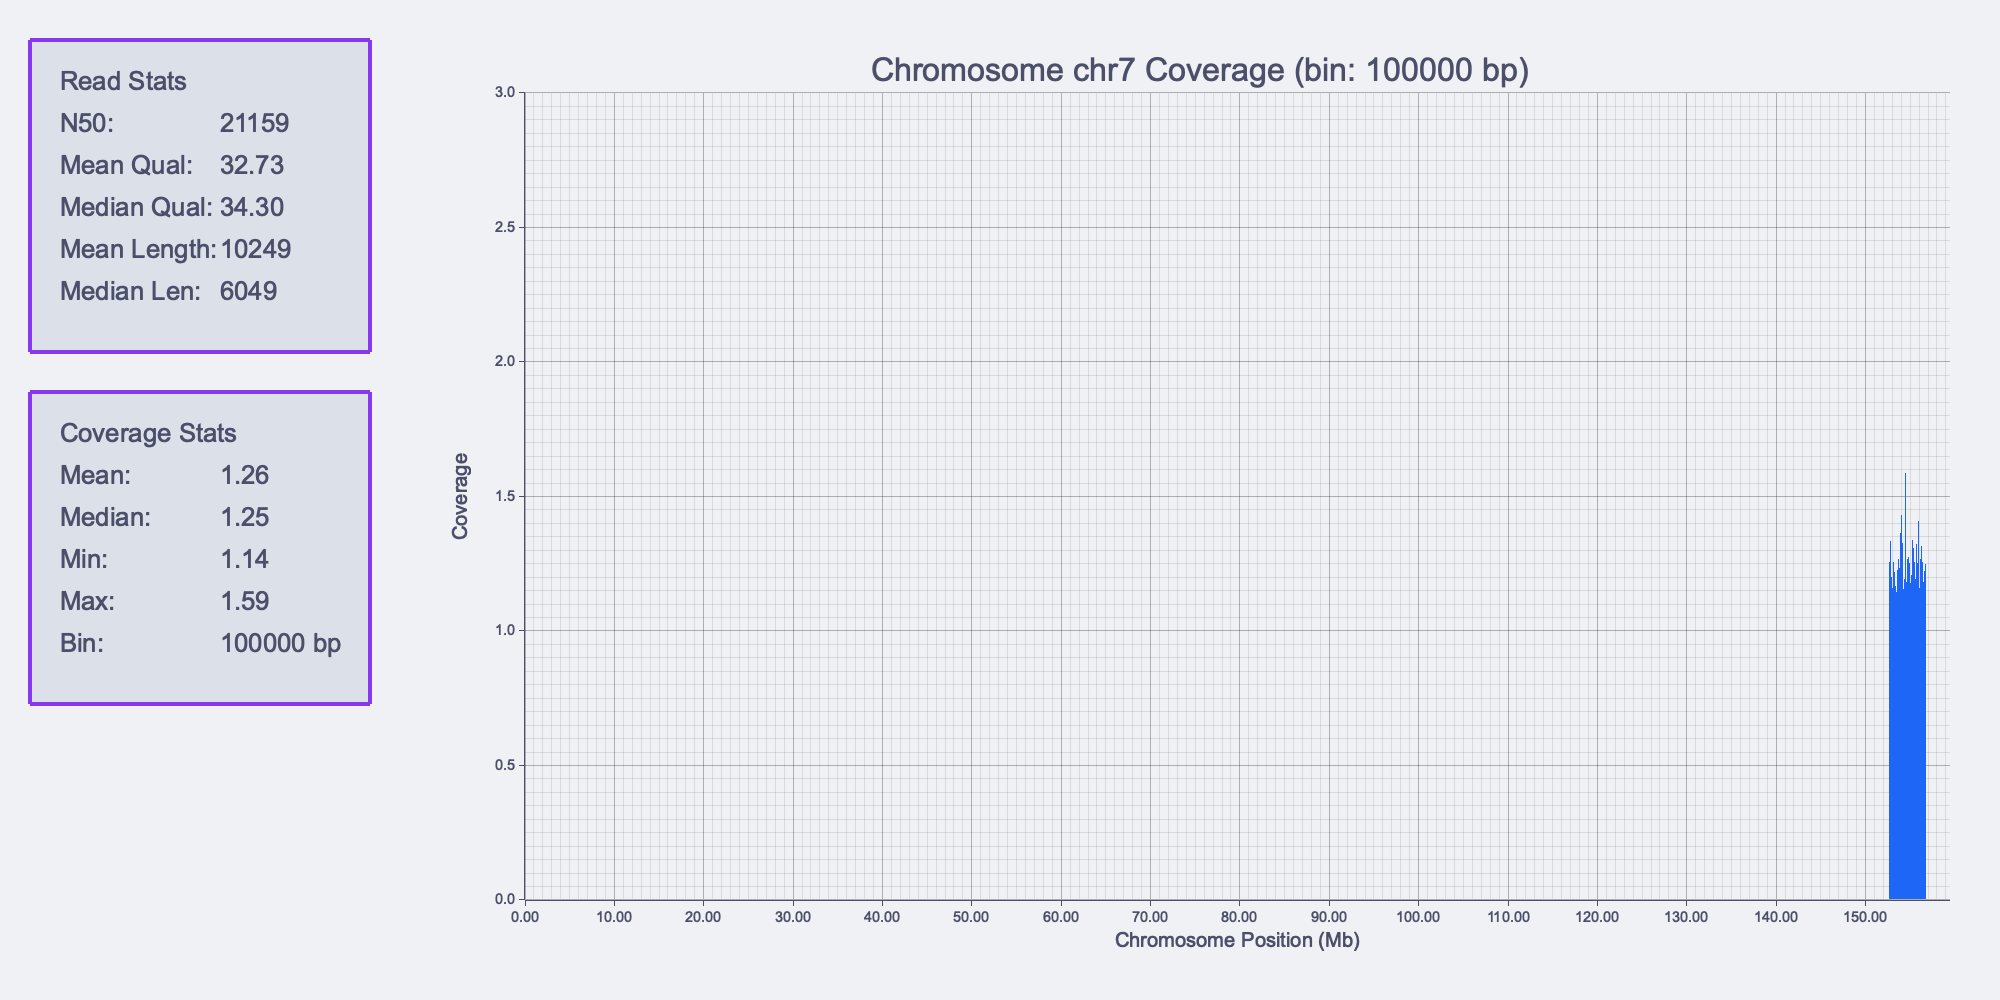
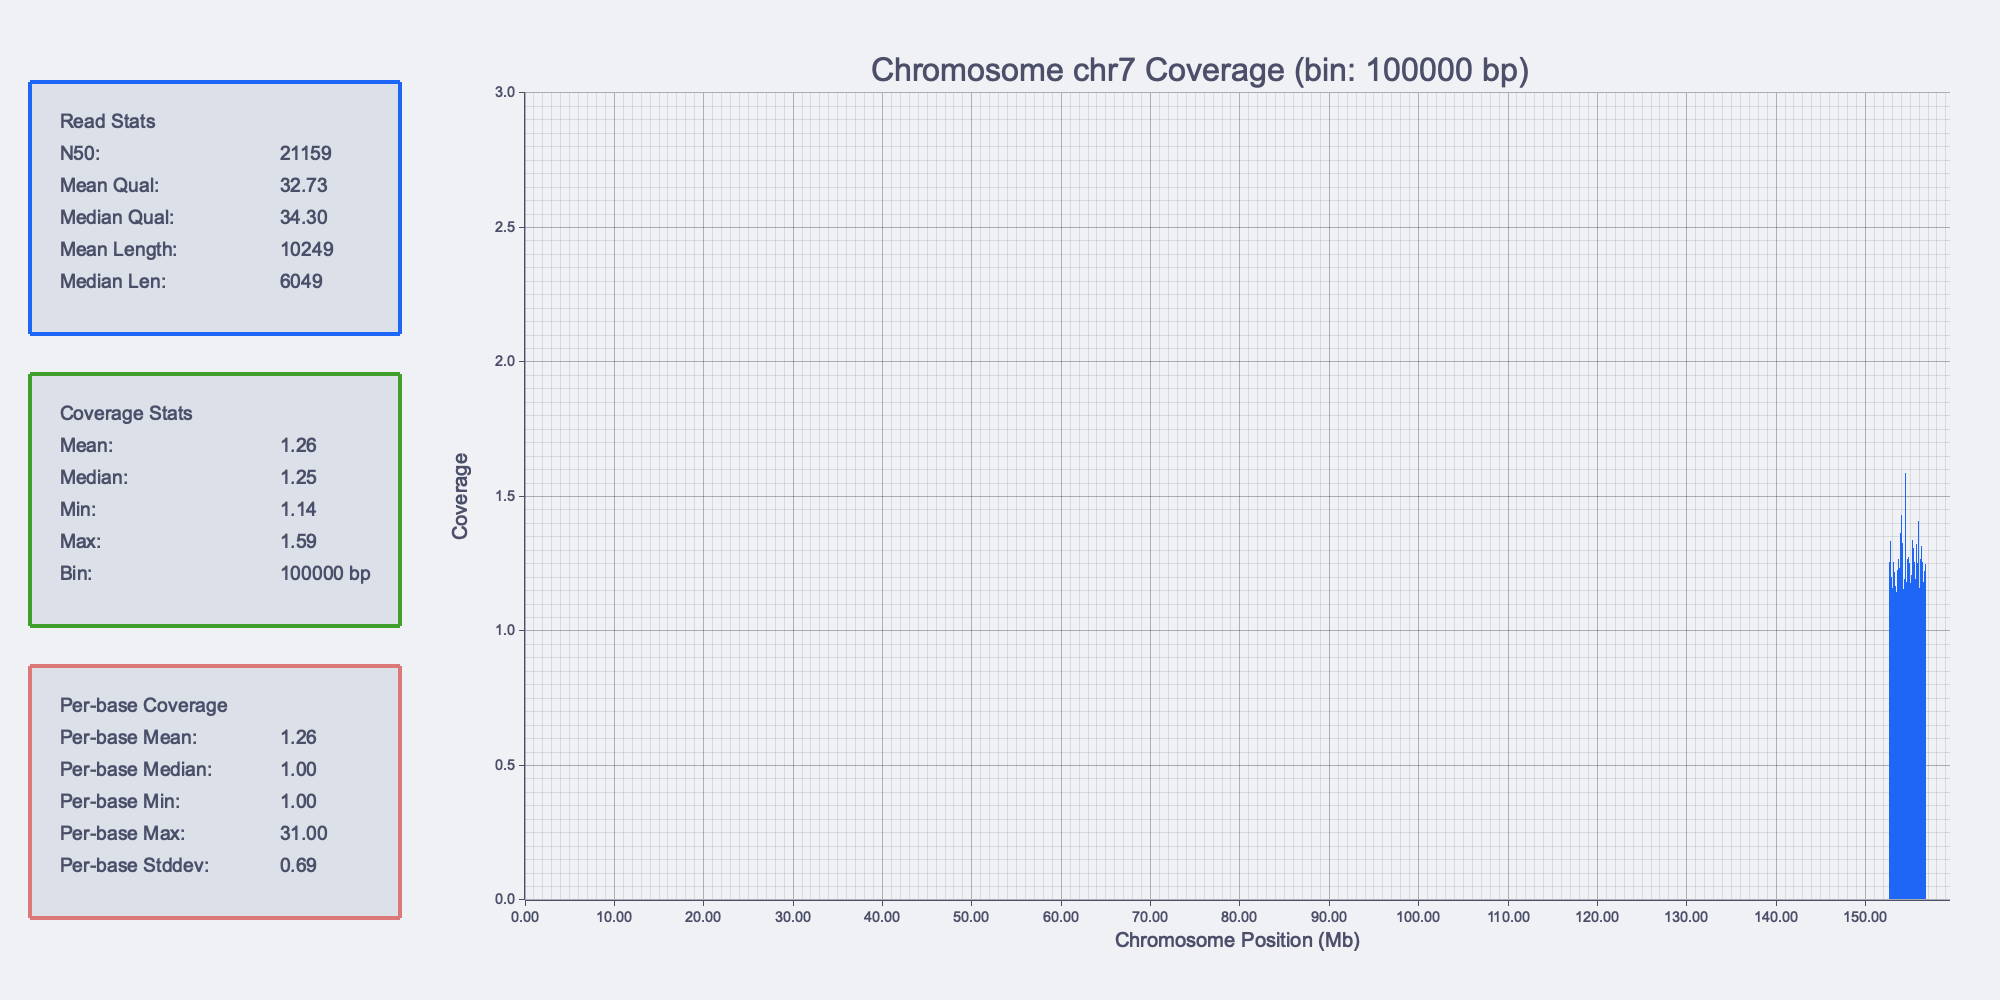
Added stats panels but I think the calculations need to be optimized.

Changed region(s): [[0.0, 0.031, 0.217, 0.868], [0.0, 0.899, 0.186, 0.93]]

diff --git a/src/plotting/mod.rs b/src/plotting/mod.rs
@@ -5,6 +5,8 @@
 const CAT_BLUE: RGBColor = RGBColor(30, 102, 245); // Blue
 const CAT_MAUVE: RGBColor = RGBColor(136, 57, 239); // Mauve
 const CAT_GREEN: RGBColor = RGBColor(64, 160, 43); // Green
+const CAT_YELLOW: RGBColor = RGBColor(223, 142, 29); // Yellow
+const CAT_PINK: RGBColor = RGBColor(221, 120, 120); // Pink
 const CAT_BASE: RGBColor = RGBColor(239, 241, 245); // Base (background)
 const CAT_OVERLAY: RGBColor = RGBColor(220, 224, 232); // Overlay (box)
 const CAT_TEXT: RGBColor = RGBColor(76, 79, 105); // Text
@@ -150,12 +152,16 @@ pub fn plot_per_base_coverage_with_range(
         .color(&CAT_TEXT);
     let padding = 30;
     let line_height = 32;
-    let box_width = 400;
-    let box_height = ((6 * line_height + padding * 2) as f32 * 1.1) as i32; // 1 title + 5 stats, 10% more space
+    let box_width = (400.0 * 1.1) as i32;
+    let box_height = (6 * line_height + padding * 2) as i32;
+    let num_boxes = 3;
+    let spacing = 40;
+    let total_boxes_height = num_boxes * box_height + (num_boxes - 1) * spacing;
+    let available_height = 1000;
     let box_x = 30;
-    let box_y_top = 40;
-    let box_y_bottom = box_y_top + box_height + 40;
-
+    let box_y_top = (available_height - total_boxes_height) / 2;
+    let box_y_bottom = box_y_top + box_height + spacing;
+    let per_base_box_y = box_y_bottom + box_height + spacing;
     // --- Top box: Read stats ---
     if let Some(stats) = read_stats {
         let stats_labels = [
@@ -208,7 +214,7 @@ pub fn plot_per_base_coverage_with_range(
                 value,
                 &font,
                 (
-                    box_x + box_width - padding - 60,
+                    box_x + box_width - padding - 160,
                     box_y_top + padding + ((i as i32 + 1) * line_height),
                 ),
             )?;
@@ -262,7 +268,7 @@ pub fn plot_per_base_coverage_with_range(
             (box_x + box_width, box_y_bottom + box_height),
         ],
         ShapeStyle {
-            color: CAT_MAUVE.to_rgba(),
+            color: CAT_GREEN.to_rgba(),
             filled: false,
             stroke_width: 3,
         },
@@ -285,7 +291,7 @@ pub fn plot_per_base_coverage_with_range(
             value,
             &font,
             (
-                box_x + box_width - padding - 60,
+                box_x + box_width - padding - 160,
                 box_y_bottom + padding + ((i as i32 + 1) * line_height),
             ),
         )?;
@@ -337,7 +343,6 @@ pub fn plot_per_base_coverage_with_range(
         format!("{:.2}", per_base_stddev),
     ];
 
-    let per_base_box_y = box_y_bottom + box_height + 40;
     left_panel.draw(&Rectangle::new(
         [
             (box_x, per_base_box_y),
@@ -355,7 +360,7 @@ pub fn plot_per_base_coverage_with_range(
             (box_x + box_width, per_base_box_y + box_height),
         ],
         ShapeStyle {
-            color: CAT_MAUVE.to_rgba(),
+            color: CAT_PINK.to_rgba(),
             filled: false,
             stroke_width: 3,
         },
@@ -382,7 +387,7 @@ pub fn plot_per_base_coverage_with_range(
             value,
             &font,
             (
-                box_x + box_width - padding - 60,
+                box_x + box_width - padding - 160,
                 per_base_box_y + padding + ((i as i32 + 1) * line_height),
             ),
         )?;
